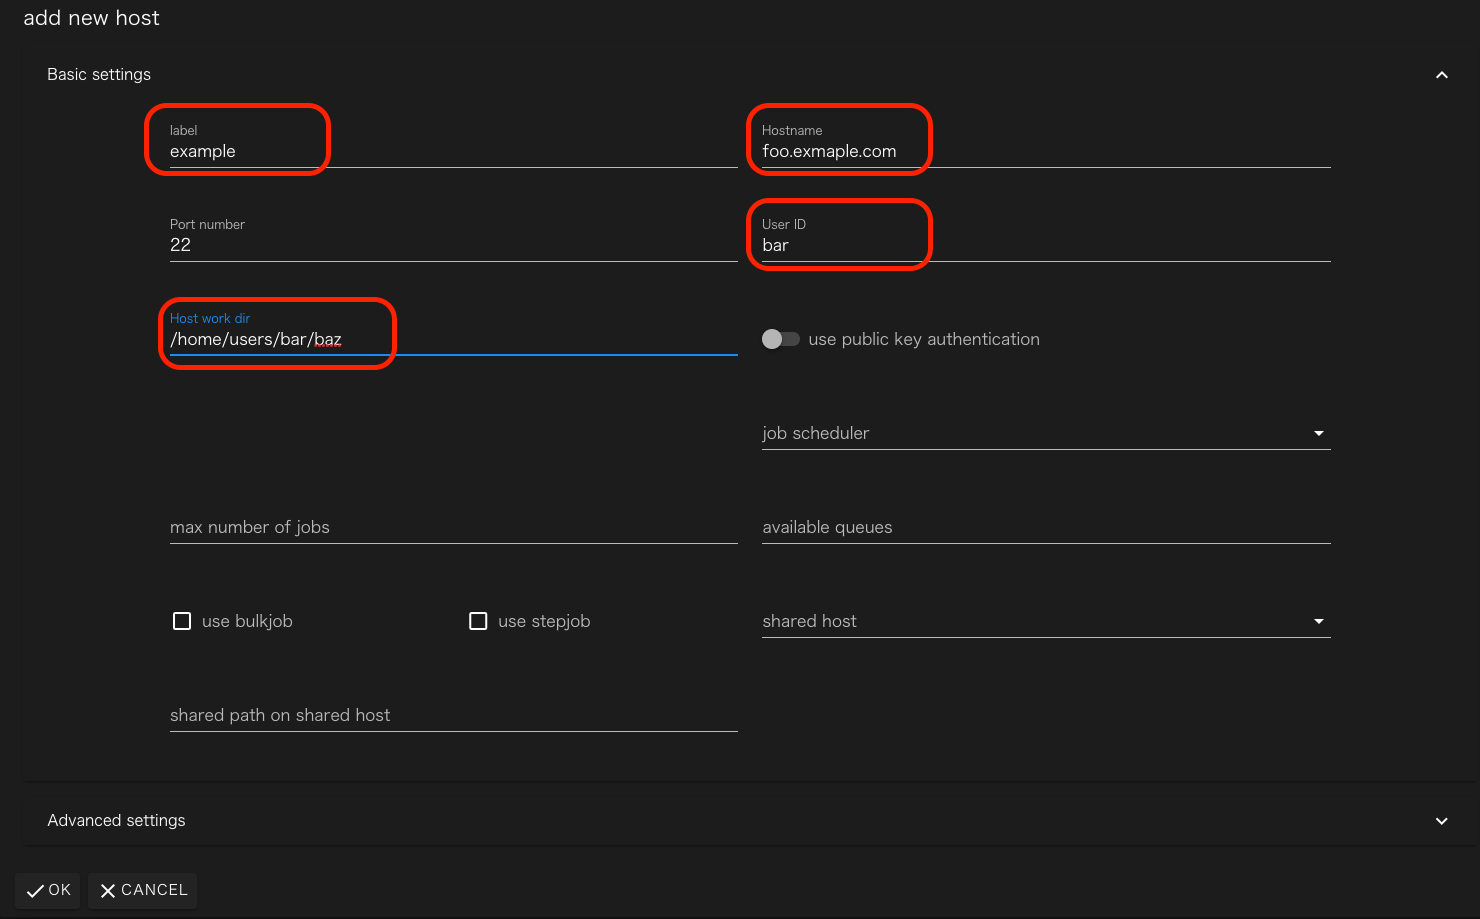
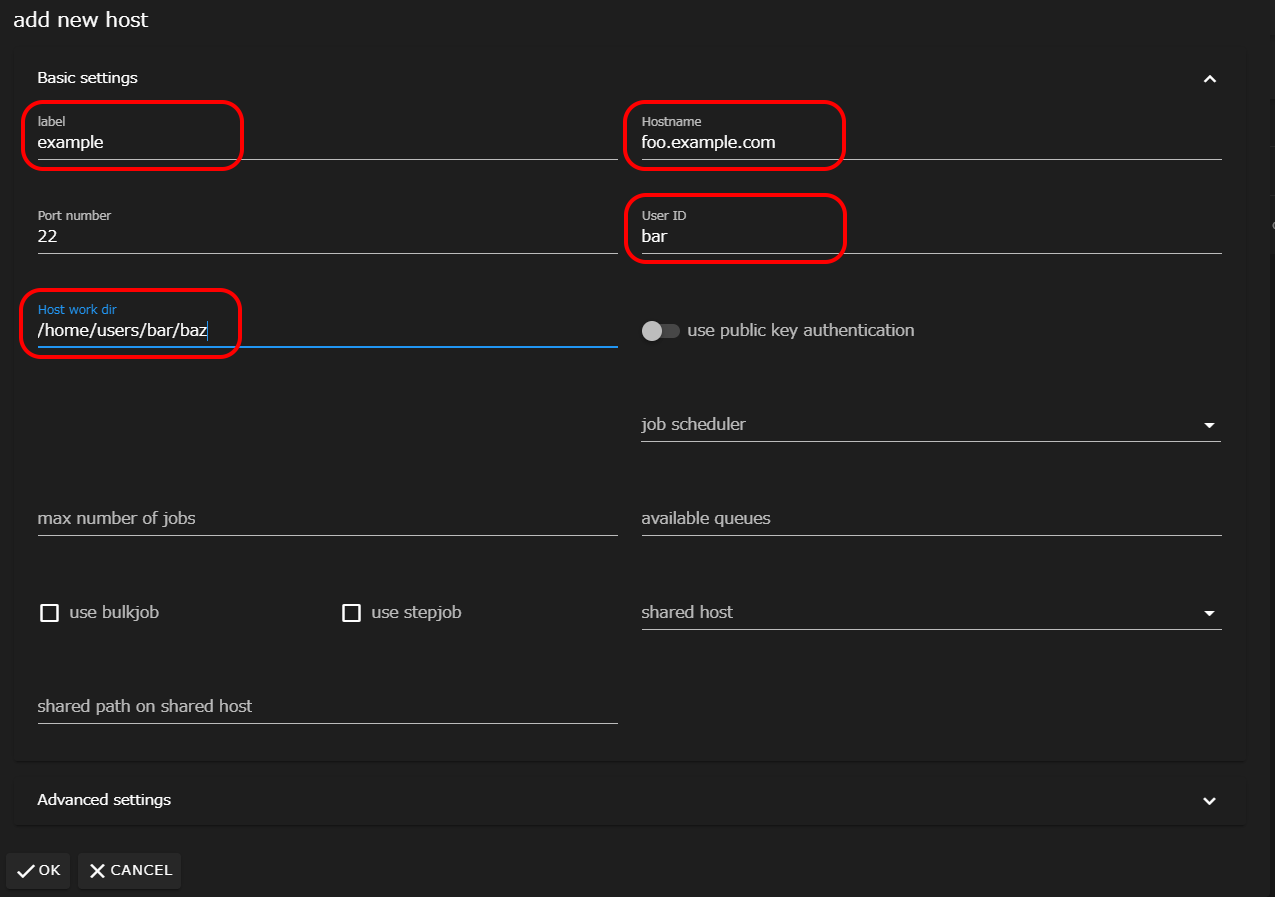
Correct typos

diff --git a/documentMD/user_guide/_how_to_boot/index.md b/documentMD/user_guide/_how_to_boot/index.md
@@ -60,7 +60,7 @@ WHEELは、sshでログインした先のマシン上でタスクを実行でき
 
 まず、WHEELにアクセスし、画面右上のハンバーガーメニューをクリックします。
 
-![img](./img/workflow6.png "hunburger menu")
+![img](./img/workflow6.png "hamburger menu")
 
 表示されたメニュー内の __Remotehost editor__ をクリックすると別のタブでリモートホスト設定画面が表示されます。
 
